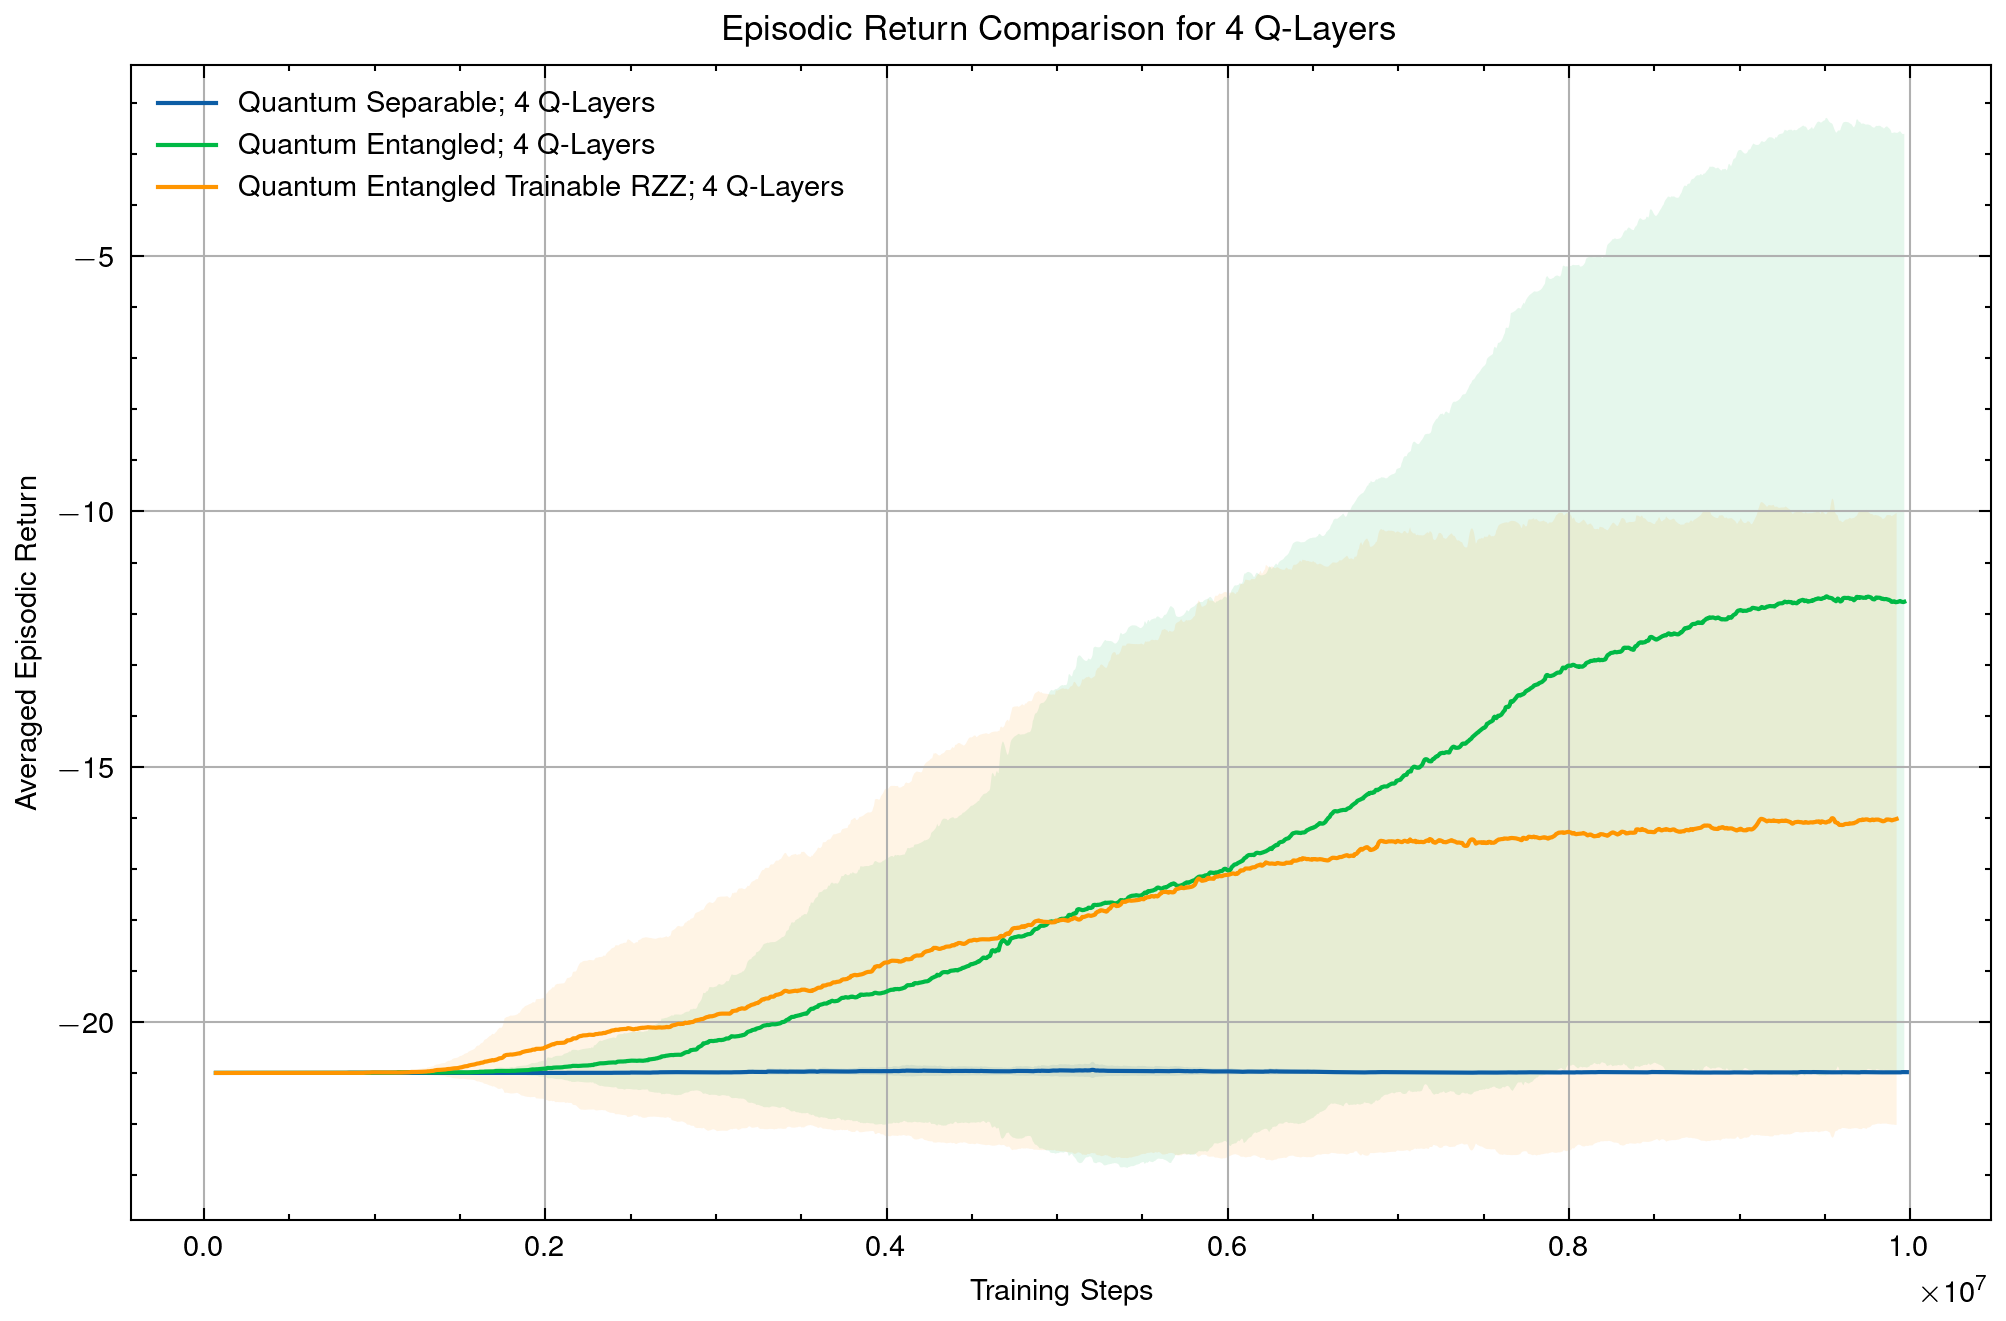
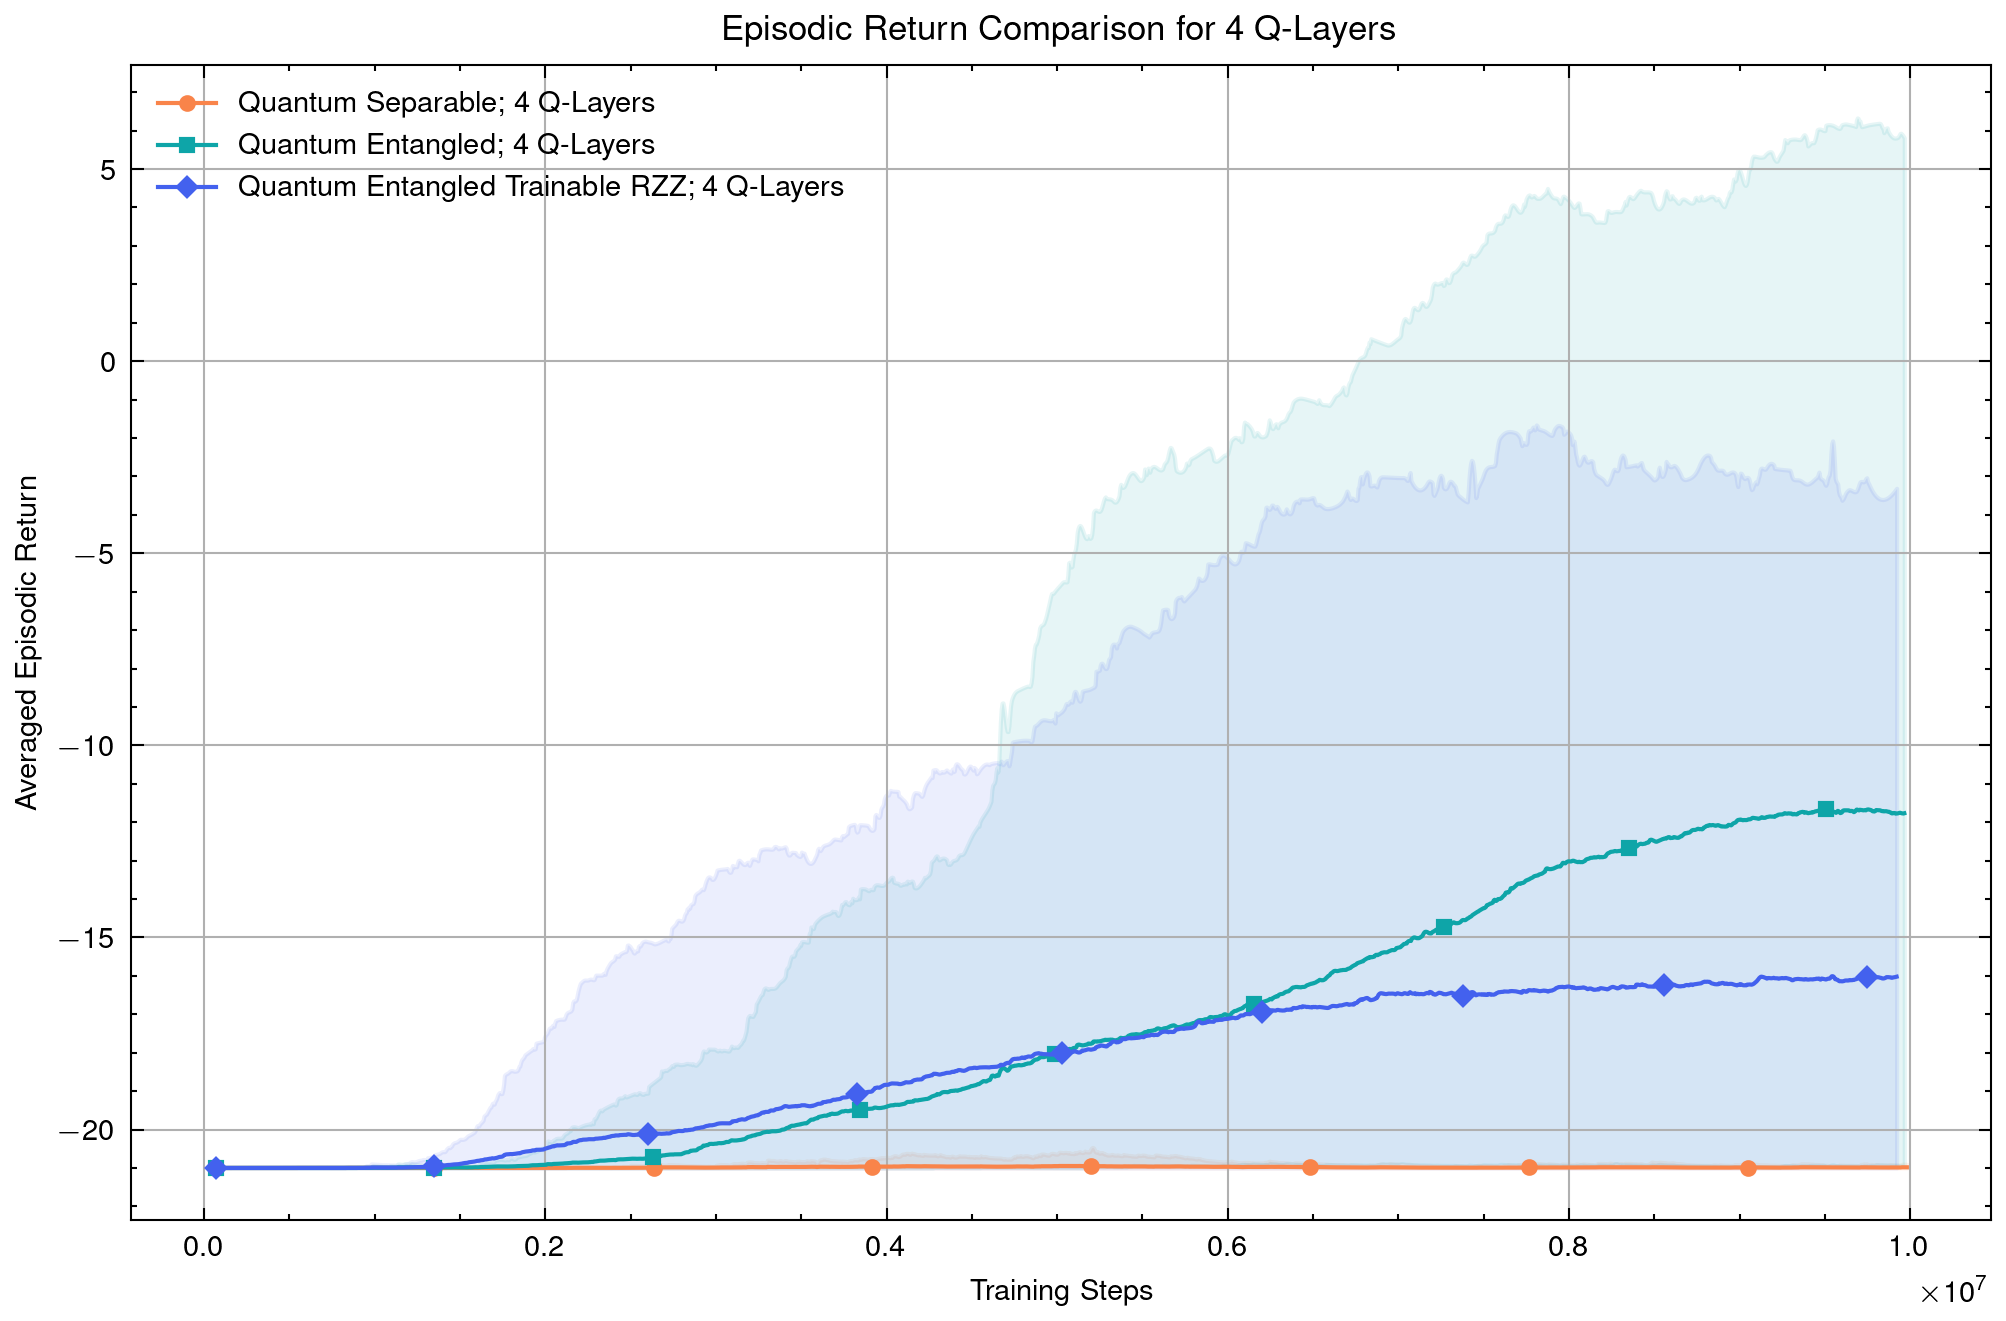
finalise some plots

diff --git a/generate_plots.py b/generate_plots.py
@@ -130,23 +130,36 @@ def mean_across_runs(dfs, span=50):
     df_mean = pd.DataFrame({'step': UNIFORM_STEPS, 'value': mean_values})
     return df_mean
 
-def std_across_runs(dfs, span=50):
+def minmax_across_runs(dfs, span=50):
     """
     Given a list of dataframes (each for a run), smooth and resample them,
-    then compute the standard deviation across runs.
+    then compute the min and max across runs.
     """
     resampled_dfs = [smooth_and_resample(df, span=span) for df in dfs]
-    std_values = np.std([df['value'].values for df in resampled_dfs], axis=0)
-    df_std = pd.DataFrame({'step': UNIFORM_STEPS, 'value': std_values})
-    return df_std
+    min_values = np.min([df['value'].values for df in resampled_dfs], axis=0)
+    max_values = np.max([df['value'].values for df in resampled_dfs], axis=0)
+    df_minmax = pd.DataFrame({'step': UNIFORM_STEPS, 'min': min_values, 'max': max_values})
+    return df_minmax
 
 if __name__ == "__main__":
     # Color palette
-    # Classical baseline: Gray-dashed
-    # Quantum models: Different prime colors for different type of models
-    # Different minor colors for different number of layers
-    CLASSICAL_COLOR = 'gray'
+    # Classical baseline: Black-dashed
+    CLASSICAL_COLOR = 'black'
+    SEPARABLE_COLOR = sns.color_palette(["#F94144", "#F3722C", "#F8961E", "#F9844A", "#E76F51", "#D62828"])
+    ENTANGLED_COLOR = sns.color_palette(["#84CC16", "#16A34A", "#059669", "#0EA5A8", "#2DD4BF", "#065F46"])
+    ENTANGLED_TRAINABLE_RZZ_COLOR = sns.color_palette(["#3A86FF", "#0077B6", "#00B4D8", "#4361EE", "#4C1D95", "#7B2CBF"])
     SHADE_ALPHA = 0.1
+    # line markers
+    # layer markers
+    LAYER_MARKERS = ['o', 's', 'D', '^', 'v', '+']
+    # model markers
+    MODEL_MARKERS = {
+        'quantum_separable': 'o',
+        'quantum_entangled': 's',
+        'quantum_entangled_trainable_rzz': 'D',
+        'classical_64': 'X',
+        'classical_4096': 'P'
+    }
 
     # 1. Compare quantum models w.r.t. classical baseline with 64 parameters
     # 1.1 Separable quantum model vs classical baseline, episodic return
@@ -154,19 +167,19 @@ if __name__ == "__main__":
     dfs = res_groups['quantum_separable']
     # sort layers by integer value
     dfs = dict(sorted(dfs.items(), key=lambda item: int(item[0])))
-    for n_layers, files in dfs.items():
+    for idx, (n_layers, files) in enumerate(dfs.items()):
         run_dfs = [select_step_value(load_csv_as_df(f), '0-Episodic-Stats/episodic_return') for f in files]
         df_mean = mean_across_runs(run_dfs, span=EMA_SPAN)
-        plt.plot(df_mean['step'], df_mean['value'], label=f'Quantum Separable; {n_layers} Q-Layers')
-        df_std = std_across_runs(run_dfs, span=EMA_SPAN)
-        plt.fill_between(df_std['step'], df_mean['value'] - df_std['value'], df_mean['value'] + df_std['value'], alpha=SHADE_ALPHA,)
+        plt.plot(df_mean['step'], df_mean['value'], label=f'Quantum Separable; {n_layers} Q-Layers', color=SEPARABLE_COLOR[idx], marker = LAYER_MARKERS[idx], markevery=0.1)
+        df_minmax = minmax_across_runs(run_dfs, span=EMA_SPAN)
+        plt.fill_between(df_minmax['step'], df_minmax['min'], df_minmax['max'], alpha=SHADE_ALPHA, color=SEPARABLE_COLOR[idx])
     # Classical baseline with 64 parameters
     files = res_groups['classical_64']
     run_dfs = [select_step_value(load_csv_as_df(f), '0-Episodic-Stats/episodic_return') for f in files]
     df_mean = mean_across_runs(run_dfs, span=EMA_SPAN)
-    df_std = std_across_runs(run_dfs, span=EMA_SPAN)
-    plt.fill_between(df_std['step'], df_mean['value'] - df_std['value'], df_mean['value'] + df_std['value'], alpha=SHADE_ALPHA, color=CLASSICAL_COLOR)
-    plt.plot(df_mean['step'], df_mean['value'], label='Classical Baseline 64 Params', linestyle='--', color=CLASSICAL_COLOR)
+    df_minmax = minmax_across_runs(run_dfs, span=EMA_SPAN)
+    plt.fill_between(df_minmax['step'], df_minmax['min'], df_minmax['max'], alpha=SHADE_ALPHA, color=CLASSICAL_COLOR)
+    plt.plot(df_mean['step'], df_mean['value'], label='Classical Baseline 64 Params', linestyle='--', color=CLASSICAL_COLOR, marker=MODEL_MARKERS['classical_64'], markevery=0.1)
     plt.xlabel('Training Steps')
     plt.ylabel('Averaged Episodic Return')
     plt.title('Episodic Return: Quantum Separable vs Classical Baseline (64 Params)')
@@ -180,19 +193,19 @@ if __name__ == "__main__":
     dfs = res_groups['quantum_entangled']
     # sort layers by integer value
     dfs = dict(sorted(dfs.items(), key=lambda item: int(item[0])))
-    for n_layers, files in dfs.items():
+    for idx, (n_layers, files) in enumerate(dfs.items()):
         run_dfs = [select_step_value(load_csv_as_df(f), '0-Episodic-Stats/episodic_return') for f in files]
         df_mean = mean_across_runs(run_dfs, span=EMA_SPAN)
-        plt.plot(df_mean['step'], df_mean['value'], label=f'Quantum Entangled; {n_layers} Q-Layers')
-        df_std = std_across_runs(run_dfs, span=EMA_SPAN)
-        plt.fill_between(df_std['step'], df_mean['value'] - df_std['value'], df_mean['value'] + df_std['value'], alpha=SHADE_ALPHA)
+        plt.plot(df_mean['step'], df_mean['value'], label=f'Quantum Entangled; {n_layers} Q-Layers', color=ENTANGLED_COLOR[idx], marker = LAYER_MARKERS[idx], markevery=0.1)
+        df_minmax = minmax_across_runs(run_dfs, span=EMA_SPAN)
+        plt.fill_between(df_minmax['step'], df_minmax['min'], df_minmax['max'], alpha=SHADE_ALPHA, color=ENTANGLED_COLOR[idx])
     # Classical baseline with 64 parameters
     files = res_groups['classical_64']
     run_dfs = [select_step_value(load_csv_as_df(f), '0-Episodic-Stats/episodic_return') for f in files]
     df_mean = mean_across_runs(run_dfs, span=EMA_SPAN)
-    df_std = std_across_runs(run_dfs, span=EMA_SPAN)
-    plt.fill_between(df_std['step'], df_mean['value'] - df_std['value'], df_mean['value'] + df_std['value'], alpha=SHADE_ALPHA, color=CLASSICAL_COLOR)
-    plt.plot(df_mean['step'], df_mean['value'], label='Classical Baseline 64 Params', linestyle='--', color=CLASSICAL_COLOR)
+    df_minmax = minmax_across_runs(run_dfs, span=EMA_SPAN)
+    plt.fill_between(df_minmax['step'], df_minmax['min'], df_minmax['max'], alpha=SHADE_ALPHA, color=CLASSICAL_COLOR)
+    plt.plot(df_mean['step'], df_mean['value'], label='Classical Baseline 64 Params', linestyle='--', color=CLASSICAL_COLOR, marker=MODEL_MARKERS['classical_64'], markevery=0.1)
     plt.xlabel('Training Steps')
     plt.ylabel('Averaged Episodic Return')
     plt.title('Episodic Return: Quantum Entangled vs Classical Baseline (64 Params)')
@@ -206,19 +219,19 @@ if __name__ == "__main__":
     dfs = res_groups['quantum_entangled_trainable_rzz']
     # sort layers by integer value
     dfs = dict(sorted(dfs.items(), key=lambda item: int(item[0])))
-    for n_layers, files in dfs.items():
+    for idx, (n_layers, files) in enumerate(dfs.items()):
         run_dfs = [select_step_value(load_csv_as_df(f), '0-Episodic-Stats/episodic_return') for f in files]
         df_mean = mean_across_runs(run_dfs, span=EMA_SPAN)
-        plt.plot(df_mean['step'], df_mean['value'], label=f'Quantum Entangled Trainable RZZ; {n_layers} Q-Layers')
-        df_std = std_across_runs(run_dfs, span=EMA_SPAN)
-        plt.fill_between(df_std['step'], df_mean['value'] - df_std['value'], df_mean['value'] + df_std['value'], alpha=SHADE_ALPHA)
+        plt.plot(df_mean['step'], df_mean['value'], label=f'Quantum Entangled Trainable RZZ; {n_layers} Q-Layers', color=ENTANGLED_TRAINABLE_RZZ_COLOR[idx], marker = LAYER_MARKERS[idx], markevery=0.1)
+        df_minmax = minmax_across_runs(run_dfs, span=EMA_SPAN)
+        plt.fill_between(df_minmax['step'], df_minmax['min'], df_minmax['max'], alpha=SHADE_ALPHA, color=ENTANGLED_TRAINABLE_RZZ_COLOR[idx])
     # Classical baseline with 64 parameters
     files = res_groups['classical_64']
     run_dfs = [select_step_value(load_csv_as_df(f), '0-Episodic-Stats/episodic_return') for f in files]
     df_mean = mean_across_runs(run_dfs, span=EMA_SPAN)
-    plt.plot(df_mean['step'], df_mean['value'], label='Classical Baseline 64 Params', linestyle='--', color=CLASSICAL_COLOR)
-    df_std = std_across_runs(run_dfs, span=EMA_SPAN)
-    plt.fill_between(df_std['step'], df_mean['value'] - df_std['value'], df_mean['value'] + df_std['value'], alpha=SHADE_ALPHA, color=CLASSICAL_COLOR)
+    plt.plot(df_mean['step'], df_mean['value'], label='Classical Baseline 64 Params', linestyle='--', color=CLASSICAL_COLOR, marker=MODEL_MARKERS['classical_64'], markevery=0.1)
+    df_minmax = minmax_across_runs(run_dfs, span=EMA_SPAN)
+    plt.fill_between(df_minmax['step'], df_minmax['min'], df_minmax['max'], alpha=SHADE_ALPHA, color=CLASSICAL_COLOR)
     plt.xlabel('Training Steps')
     plt.ylabel('Averaged Episodic Return')
     plt.title('Episodic Return: Quantum Entangled Trainable RZZ vs Classical Baseline (64 Params)')
@@ -229,31 +242,32 @@ if __name__ == "__main__":
 
     # 2. Compare entangled quantum models (two types) w.r.t. separable models for each number of layers
     for n_layers in dfs.keys():
+        idx = int(n_layers) - 1  # zero-based index
         fig = plt.figure(figsize=FIG_SIZE)
         # Separable model
         files = res_groups['quantum_separable'].get(n_layers, [])
         if files:
             run_dfs = [select_step_value(load_csv_as_df(f), '0-Episodic-Stats/episodic_return') for f in files]
             df_mean = mean_across_runs(run_dfs, span=EMA_SPAN)
-            plt.plot(df_mean['step'], df_mean['value'], label=f'Quantum Separable; {n_layers} Q-Layers')
-            df_std = std_across_runs(run_dfs, span=EMA_SPAN)
-            plt.fill_between(df_std['step'], df_mean['value'] - df_std['value'], df_mean['value'] + df_std['value'], alpha=SHADE_ALPHA)
+            plt.plot(df_mean['step'], df_mean['value'], label=f'Quantum Separable; {n_layers} Q-Layers', color=SEPARABLE_COLOR[idx], marker=MODEL_MARKERS['quantum_separable'], markevery=0.1)
+            df_minmax = minmax_across_runs(run_dfs, span=EMA_SPAN)
+            plt.fill_between(df_minmax['step'], df_minmax['min'], df_minmax['max'], alpha=SHADE_ALPHA, color=SEPARABLE_COLOR[idx])
         # Entangled model
         files = res_groups['quantum_entangled'].get(n_layers, [])
         if files:
             run_dfs = [select_step_value(load_csv_as_df(f), '0-Episodic-Stats/episodic_return') for f in files]
             df_mean = mean_across_runs(run_dfs, span=EMA_SPAN)
-            plt.plot(df_mean['step'], df_mean['value'], label=f'Quantum Entangled; {n_layers} Q-Layers')
-            df_std = std_across_runs(run_dfs, span=EMA_SPAN)
-            plt.fill_between(df_std['step'], df_mean['value'] - df_std['value'], df_mean['value'] + df_std['value'], alpha=SHADE_ALPHA)
+            plt.plot(df_mean['step'], df_mean['value'], label=f'Quantum Entangled; {n_layers} Q-Layers', color=ENTANGLED_COLOR[idx], marker=MODEL_MARKERS['quantum_entangled'], markevery=0.1)
+            df_minmax = minmax_across_runs(run_dfs, span=EMA_SPAN)
+            plt.fill_between(df_minmax['step'], df_minmax['min'], df_minmax['max'], alpha=SHADE_ALPHA, color=ENTANGLED_COLOR[idx])
         # Entangled trainable rzz model
         files = res_groups['quantum_entangled_trainable_rzz'].get(n_layers, [])
         if files:
             run_dfs = [select_step_value(load_csv_as_df(f), '0-Episodic-Stats/episodic_return') for f in files]
             df_mean = mean_across_runs(run_dfs, span=EMA_SPAN)
-            plt.plot(df_mean['step'], df_mean['value'], label=f'Quantum Entangled Trainable RZZ; {n_layers} Q-Layers')
-            df_std = std_across_runs(run_dfs, span=EMA_SPAN)
-            plt.fill_between(df_std['step'], df_mean['value'] - df_std['value'], df_mean['value'] + df_std['value'], alpha=SHADE_ALPHA)
+            plt.plot(df_mean['step'], df_mean['value'], label=f'Quantum Entangled Trainable RZZ; {n_layers} Q-Layers', color=ENTANGLED_TRAINABLE_RZZ_COLOR[idx], marker=MODEL_MARKERS['quantum_entangled_trainable_rzz'], markevery=0.1)
+            df_minmax = minmax_across_runs(run_dfs, span=EMA_SPAN)
+            plt.fill_between(df_minmax['step'], df_minmax['min'], df_minmax['max'], alpha=SHADE_ALPHA, color=ENTANGLED_TRAINABLE_RZZ_COLOR[idx])
         plt.xlabel('Training Steps')
         plt.ylabel('Averaged Episodic Return')
         plt.legend()
